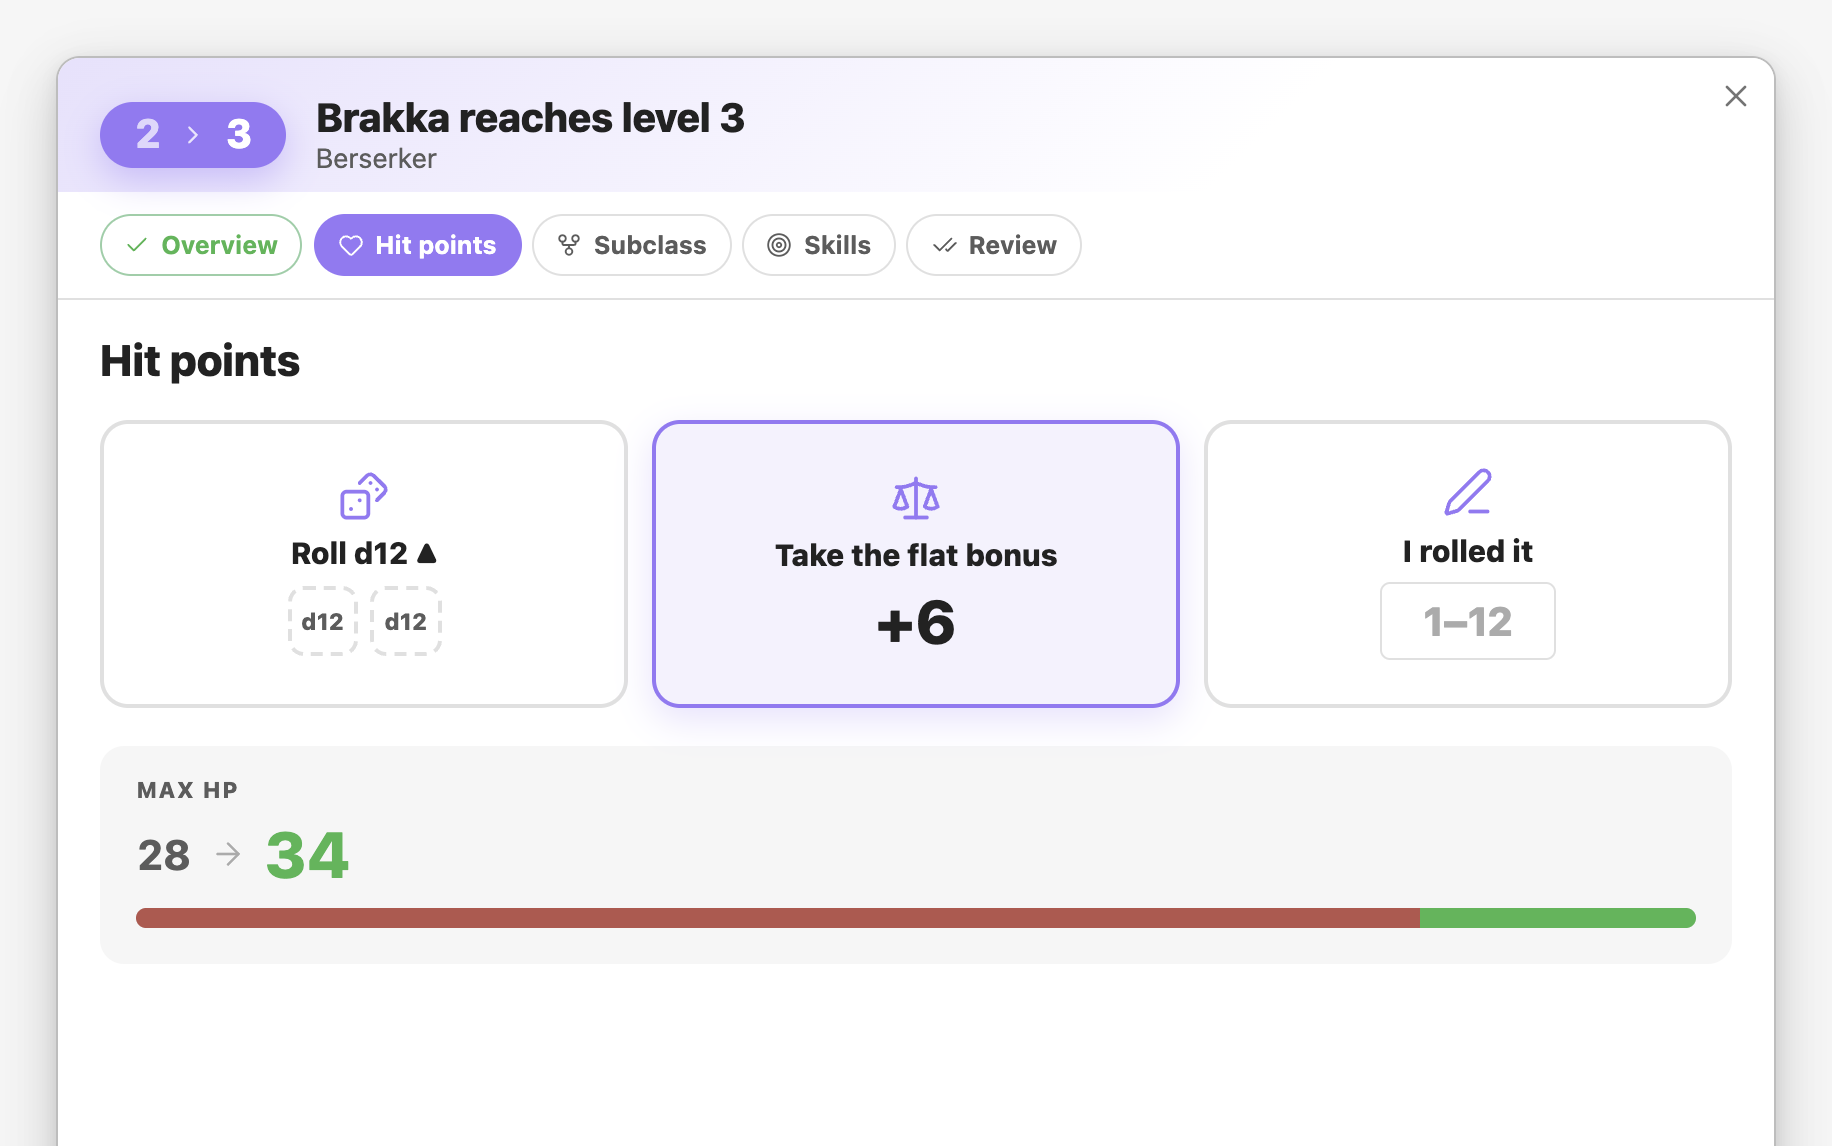
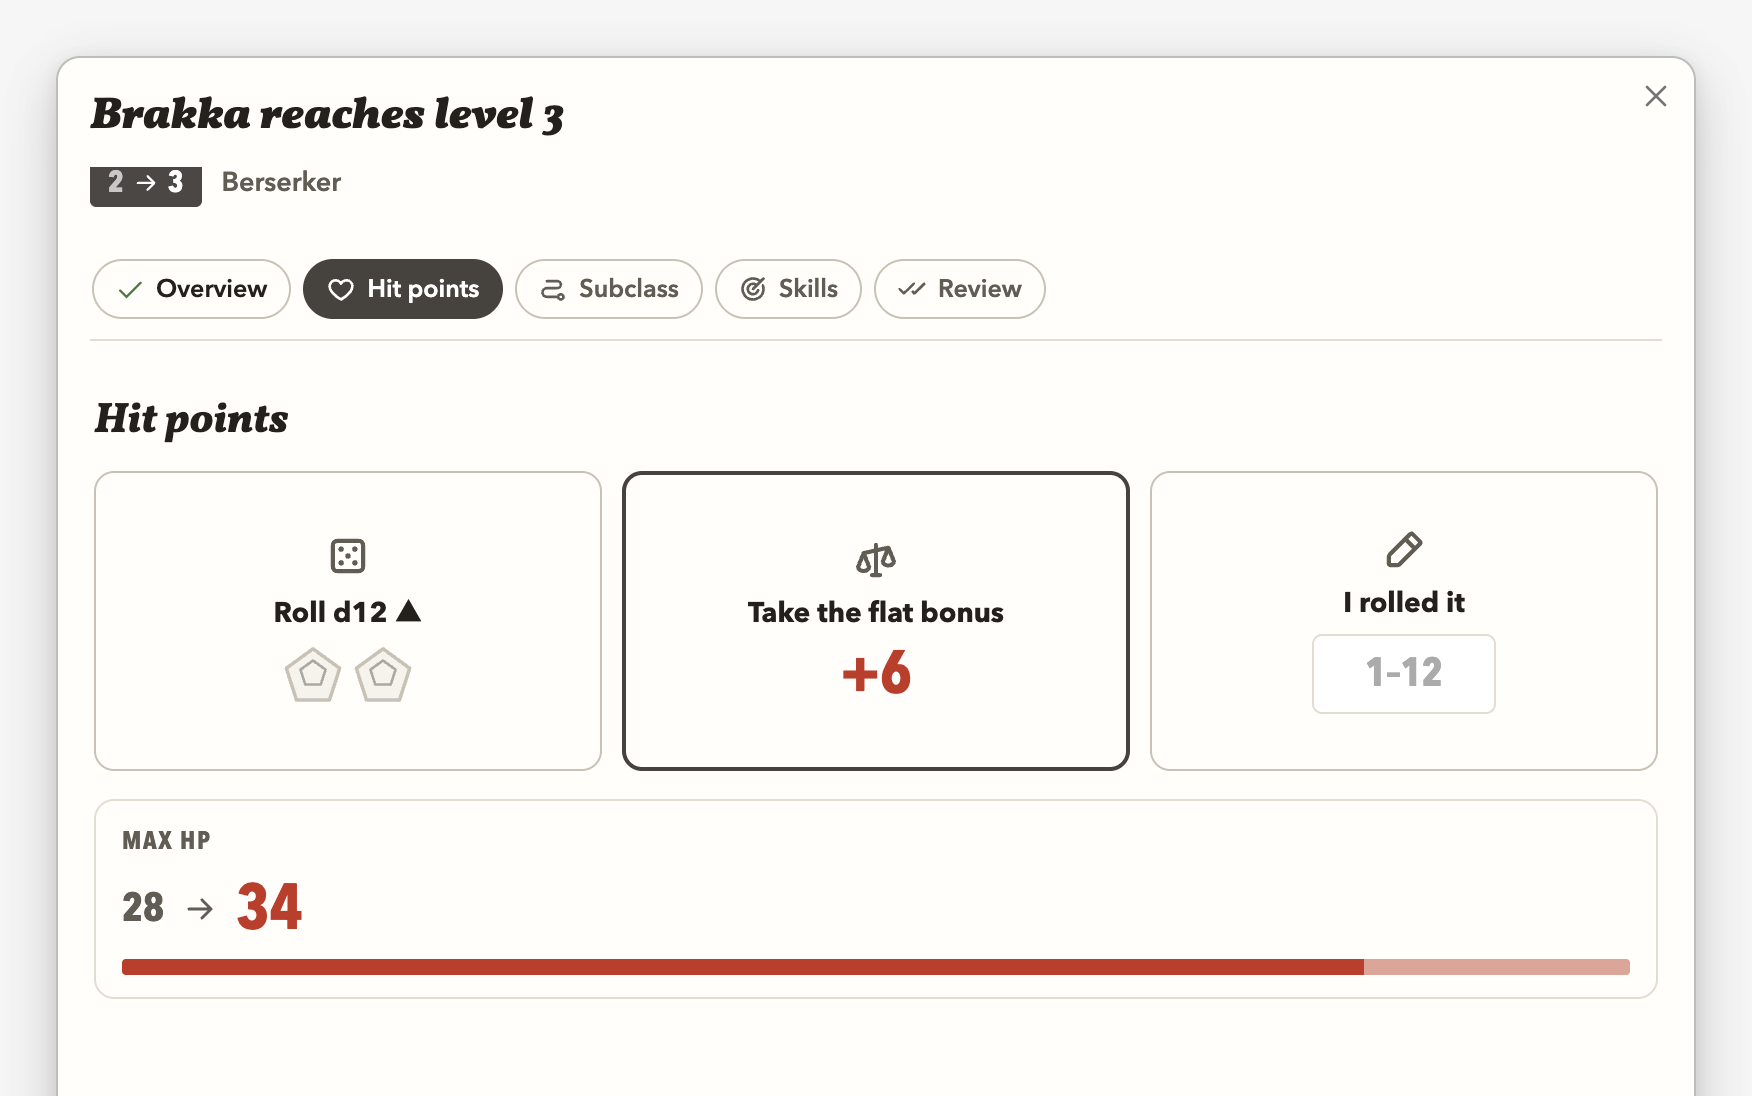
📝 Guide: making a character and levelling up, step by step, with new screenshots
The character sheets guide described New character as one form that placed the
array for you. It now walks through the wizard's steps: placing the array by
swapping stats, starting above level 1, Heroic Skills, gear or gold, and what
levelling up asks for (subclass swaps, schools and Utility Spells, increases).
A new screenshot shows the Stats step; the Level up one is retaken in the new
look. The design study archives the wizard under Builders and dialogs.

diff --git a/prototypes/encounter-design-study.html b/prototypes/encounter-design-study.html
@@ -11552,6 +11552,7 @@ DEFS.nimble.tools = {
 		'<b>References</b> keep one anatomy in every game and take its colours: charcoal for monsters, mana blue for spells, ochre for items. The hover card’s frame (its bar, paper and edge) follows the game of what it shows.',
 		'<b>Homebrew spells and items</b> are the compendium’s card for the same kind of thing, framed in the note as the encounter block is. The Edit pencil sits on the card’s corner, on its paper.',
 		'<b>The builder.</b> Kinds, steps and controls draw Phosphor Bold (<code>gameIcon()</code> maps the Lucide names a system passes). Step headings and the check’s value are set in Vollkorn heavy italic, field labels in the sheet’s condensed capitals. The verdict is a dark tag with its tone as a dot; each meter’s label sits beside its value, and HP’s bar is red. Help that repeated a field’s placeholder is gone.',
+		'<b>Character wizard.</b> New character and Level up are one carousel in a game dialog: step chips along the top (charcoal for the one on show, a green tick when done), one decision a step, and Back | Next in the keypad’s footer. Stats draw the sheet’s own boxes and save triangles; KEY is ochre, the class’s colour, and so is the subclass you choose. HP is red, schools and spells blue, everything else charcoal. Names are Vollkorn, labels the condensed capitals; nothing explains a label or prints a formula.',
 		'<b>Party editor.</b> A game dialog in the look of the game being played: column heads as labels, names in Vollkorn, numbers in the figures, Add hero and Level up as the dialog’s buttons. The settings page keeps Obsidian’s own look.',
 		'<b>Maps.</b> The map wears its campaign’s game: the toolbar as pill buttons (the one that’s on a full charcoal tint), charcoal pins with red for encounters and danger and ochre for treasure, labels as dark tags in the condensed face. Monsters are charcoal discs with white initials, heroes sit on parchment, a legendary monster’s ring is ochre; the tray’s names are in Vollkorn.',
 		'<b>Measured.</b> Every new pill, tag and compact button is in the shared centring rule and in <code>PILL_SELECTORS</code>; the e2e test “pills: builders and dialogs line up” measures Add several, the encounter builder, the party, both games’ builders, the roll toast and both games’ maps within 1px.',
@@ -11571,6 +11572,9 @@ DEFS.nimble.tools = {
 		TOOL_SHOT('nimble-builder-monster', 1080, 'New monster: Start', 'Phosphor icons on kinds and steps, the heading in Vollkorn, labels in condensed capitals, the verdict as a dark tag, HP’s bar red.'),
 		TOOL_SHOT('nimble-builder-spell', 1080, 'New spell: Start', 'The schools keep their colours on their icons; the check reads the tier from the damage.'),
 		TOOL_SHOT('party-editor', 812, 'Party editor', 'A game dialog: names in Vollkorn, numbers in the figures, Add hero and Level up as its buttons.'),
+		TOOL_SHOT('nimble-new-character', 852, 'New character: Stats', 'The sheet’s own stat boxes and save triangles; the array starts where the class puts it, KEY in ochre under the key stats, and two taps swap a pair (the first tapped lifts in an ochre ring).'),
+		TOOL_SHOT('nimble-new-character-phone', 390, 'New character on a phone', 'The same boxes four across; step chips scroll sideways and the steps swipe.'),
+		TOOL_SHOT('nimble-level-up', 852, 'Level up: the subclass', 'Each subclass on a charcoal band, its name in Vollkorn; the one chosen gets an ochre ring and its levels in this run an ochre tint. No stripes, no rainbow.'),
 		TOOL_SHOT('nimble-map', 716, 'A GM map with the encounter as tokens', 'Charcoal pins, red for encounters and danger; monsters as charcoal discs, the tray’s names in Vollkorn.'),
 	],
 };

diff --git a/prototypes/design-study/src/78-tools.js b/prototypes/design-study/src/78-tools.js
@@ -20,6 +20,7 @@ DEFS.nimble.tools = {
 		'<b>References</b> keep one anatomy in every game and take its colours: charcoal for monsters, mana blue for spells, ochre for items. The hover card’s frame (its bar, paper and edge) follows the game of what it shows.',
 		'<b>Homebrew spells and items</b> are the compendium’s card for the same kind of thing, framed in the note as the encounter block is. The Edit pencil sits on the card’s corner, on its paper.',
 		'<b>The builder.</b> Kinds, steps and controls draw Phosphor Bold (<code>gameIcon()</code> maps the Lucide names a system passes). Step headings and the check’s value are set in Vollkorn heavy italic, field labels in the sheet’s condensed capitals. The verdict is a dark tag with its tone as a dot; each meter’s label sits beside its value, and HP’s bar is red. Help that repeated a field’s placeholder is gone.',
+		'<b>Character wizard.</b> New character and Level up are one carousel in a game dialog: step chips along the top (charcoal for the one on show, a green tick when done), one decision a step, and Back | Next in the keypad’s footer. Stats draw the sheet’s own boxes and save triangles; KEY is ochre, the class’s colour, and so is the subclass you choose. HP is red, schools and spells blue, everything else charcoal. Names are Vollkorn, labels the condensed capitals; nothing explains a label or prints a formula.',
 		'<b>Party editor.</b> A game dialog in the look of the game being played: column heads as labels, names in Vollkorn, numbers in the figures, Add hero and Level up as the dialog’s buttons. The settings page keeps Obsidian’s own look.',
 		'<b>Maps.</b> The map wears its campaign’s game: the toolbar as pill buttons (the one that’s on a full charcoal tint), charcoal pins with red for encounters and danger and ochre for treasure, labels as dark tags in the condensed face. Monsters are charcoal discs with white initials, heroes sit on parchment, a legendary monster’s ring is ochre; the tray’s names are in Vollkorn.',
 		'<b>Measured.</b> Every new pill, tag and compact button is in the shared centring rule and in <code>PILL_SELECTORS</code>; the e2e test “pills: builders and dialogs line up” measures Add several, the encounter builder, the party, both games’ builders, the roll toast and both games’ maps within 1px.',
@@ -39,6 +40,9 @@ DEFS.nimble.tools = {
 		TOOL_SHOT('nimble-builder-monster', 1080, 'New monster: Start', 'Phosphor icons on kinds and steps, the heading in Vollkorn, labels in condensed capitals, the verdict as a dark tag, HP’s bar red.'),
 		TOOL_SHOT('nimble-builder-spell', 1080, 'New spell: Start', 'The schools keep their colours on their icons; the check reads the tier from the damage.'),
 		TOOL_SHOT('party-editor', 812, 'Party editor', 'A game dialog: names in Vollkorn, numbers in the figures, Add hero and Level up as its buttons.'),
+		TOOL_SHOT('nimble-new-character', 852, 'New character: Stats', 'The sheet’s own stat boxes and save triangles; the array starts where the class puts it, KEY in ochre under the key stats, and two taps swap a pair (the first tapped lifts in an ochre ring).'),
+		TOOL_SHOT('nimble-new-character-phone', 390, 'New character on a phone', 'The same boxes four across; step chips scroll sideways and the steps swipe.'),
+		TOOL_SHOT('nimble-level-up', 852, 'Level up: the subclass', 'Each subclass on a charcoal band, its name in Vollkorn; the one chosen gets an ochre ring and its levels in this run an ochre tint. No stripes, no rainbow.'),
 		TOOL_SHOT('nimble-map', 716, 'A GM map with the encounter as tokens', 'Charcoal pins, red for encounters and danger; monsters as charcoal discs, the tray’s names in Vollkorn.'),
 	],
 };

diff --git a/docs/character-sheets.md b/docs/character-sheets.md
@@ -6,7 +6,18 @@ A Nimble character is an ordinary note. Its properties hold the numbers, a ```` 
 
 ## Making a character
 
-- **New character** (command palette, or **Add your character** in a [player campaign](players.md)'s party) asks for a name, ancestry, class, stat array, background and level. It assigns the array to the class's key stats, and fills in HP, Hit Dice, saves and starting gear from the class. Above level 1, HP goes up by the Hit Die's flat bonus (d12: +6) for each level; pick your class options on the sheet afterwards.
+![New character on its Stats step: the Balanced array on a Hunter, DEX picked to swap, KEY under DEX and WIL, the ▲ and ▼ saves on the boxes](images/guide-new-character.png)
+
+**New character** (command palette, or **Add your character** in a [player campaign](players.md)'s party) walks you through making a hero the way Core Rules 3.3 does, one screen at a time. Chips along the top jump between the screens, and nothing is written until you press **Create** on the last one.
+
+1. **Hero**: name, ancestry, class, background, level and player. The class shows its Hit Die, starting HP, key stats, saves, armor and weapons. Pick **Class gear** or **25 gp** a level to buy your own. An ancestry that can be Small or Medium asks which.
+2. **Stats**: pick Standard (2, 2, 0, −1), Balanced (2, 1, 1, 0) or Min-Max (3, 1, −1, −1). The numbers start where your class puts them: the highest on its two **KEY** stats, the lowest on its ▼ save. Tap a stat, then another, to swap their numbers. Your class's ▲ and ▼ saves are marked on the boxes, as on the sheet. If a key stat ends up below another stat, the dialog says so and **Class's placement** puts the numbers back. A background with a stat requirement ("0 or negative INT") warns you too.
+3. **Above level 1**, the same screens as [levelling up](#levelling-up), for every level up to the one you start at: Hit points (the flat bonus unless you roll), your subclass, your class's picks (Savage Arsenal, Sacred Decrees…), spells, stat increases and an Epic Boon. A list you choose from at several levels is one screen: a level 8 Berserker picks 3 Savage Arsenal abilities together.
+4. **Skills**: a point for every level above 1 to place, and **Heroic Skills**, the optional rule where your GM gives you 1 to 4 more.
+5. **Review**: every choice in a line. Tap one to go back to it.
+
+Choices your class or background gives at level 1 come up too: an Academy Dropout picks a Utility Spell, a Hexbinder starts knowing the Withered and Frenzied Afflictions.
+
 - In a player campaign, the hero you make is marked as yours (`mine: true`) and goes in the Party folder. **+** next to Party makes a party member instead.
 - A **Character** starter in the New note dialog, or any note with `nimble: character` and an empty ```` ```nimble-sheet ```` block, works too. Fill it in from the sheet's pencil.
 
@@ -100,16 +111,18 @@ Judgment Dice and Fury Dice are gone after a Safe Rest; they don't outlast a fig
 
 ![The level-up wizard on Hit points: roll the Hit Die with advantage or take the flat bonus, with the new max HP](images/guide-level-up.png)
 
-**Level up** (under **Camp**) opens a wizard: one decision per screen, with chips along the top to jump between them. Everything you choose is kept as you move back and forth, and nothing is written to the note until you press **Reach level N** on the last screen.
+**Level up** (under **Camp**) opens the same kind of wizard: a screen for each decision, with chips along the top to jump between them. Everything you choose is kept as you move back and forth, and nothing is written to the note until you press **Reach level N** on the last screen.
 
 1. **Overview**: what the level brings, with the new features to read.
-2. **Hit points**: roll your Hit Die with advantage (both dice roll, the higher is kept), take the flat bonus, or type in what you rolled at the table. The new max HP shows as you choose.
-3. **Subclass**, at the level you pick one: swipe through a card for each, with its flavour, complexity, and what it gives at every level (this level's features open), or switch to **Compare** for a table with every subclass side by side, level by level.
-4. **Picks** the level grants, one screen each: Savage Arsenal abilities, Spellshaper abilities, Sacred Decrees and the like, with the ones you already know marked.
-5. **Stat increases** ("+1 STR or DEX"), and an **Epic Boon** at level 19.
-6. **Skill point**, then a **review** of everything. Tap any line to go back and change it.
+2. **Hit points**: roll your Hit Die with advantage (both dice roll, the higher is kept), take the flat bonus (d12: +6), or type in what you rolled at the table. The new max HP shows as you choose. Your max Hit Dice go up by one.
+3. **Subclass**, at the level you choose one: a tab for each, with its flavour, complexity, and what it gives at every level, or **Compare** for every subclass side by side. Choosing one adds its features to this level, and its lists to the picks after it. A Beastmaster also chooses a Small, Medium or Large companion.
+4. **Picks** the level grants, one screen per list: Savage Arsenal abilities, Spellshaper abilities, Sacred Decrees, Invocations and the like, with the ones you know already marked. When your subclass changes a list, the picks follow it: an Honorseeker chooses Honorable Gambits instead of Underhanded Abilities, a Spellblade takes Commander's Orders instead of Combat Tactics and Weapon Mastery, and a Muscle Mage has no Savage Arsenal to pick from. A Commander's "another Combat Ability or +1 max Combat Dice" offers both, and +1 max Combat Dice can be taken more than once.
+5. **Spells**, when the level has you learn a school or Utility Spells: a Songweaver's second spell school, a Mage's Utility Spells from one school, an Oathsworn's Radiant Utility Spell, a Stormshifter's Utility Spell from each school it knows. A school you learn is kept in the note's `schools` property, and its spells join your spellbook. "You know all…" levels add them for you.
+6. **Increases**: the level's stat increases ("+1 STR or DEX", or "+1 to any 2 of your stats"), with each stat's new value. Then an **Epic Boon** at level 19.
+7. **Skills**: place your new skill point, and if you like, move one point you placed earlier to another skill.
+8. **Review**: every choice in a line. Tap any line to go back and change it.
 
-Anything you leave for later (a subclass, a pick) can be chosen from the sheet afterwards.
+Anything you leave for later (a subclass, a pick, a spell) can be chosen from the sheet afterwards.
 
 ## Adding things
 
